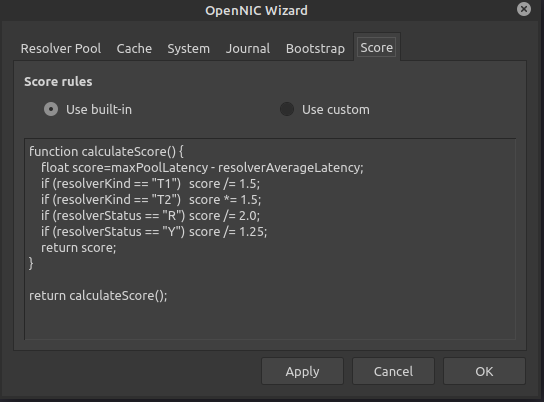
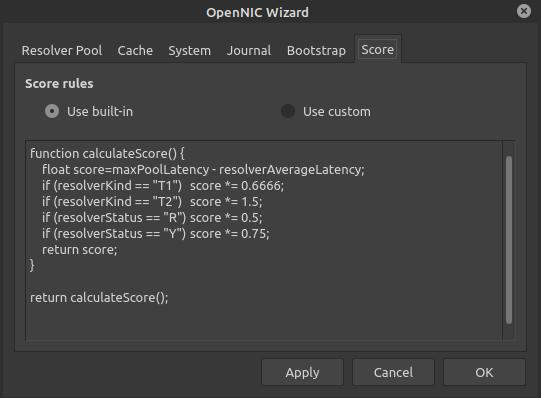
Update README

diff --git a/server/opennicserver.cpp b/server/opennicserver.cpp
@@ -37,10 +37,10 @@
 
 #define DEFAULT_SCORE_RULES	"function calculateScore() {\n" \
                             "    float score=maxPoolLatency - resolverAverageLatency;\n" \
-                            "    if (resolverKind == \"T1\")	score /= 1.5;\n" \
+                            "    if (resolverKind == \"T1\")	score *= 0.6666;\n" \
                             "    if (resolverKind == \"T2\")	score *= 1.5;\n" \
-                            "    if (resolverStatus == \"R\")	score /= 2.0;\n" \
-                            "    if (resolverStatus == \"Y\")	score /= 1.25;\n" \
+                            "    if (resolverStatus == \"R\")	score *= 0.5;\n" \
+                            "    if (resolverStatus == \"Y\")	score *= 0.75;\n" \
                             "    return score;\n" \
 							"}\n" \
 							"\n" \
@@ -169,6 +169,7 @@ void OpenNICServer::logPurge()
 void OpenNICServer::readSettings()
 {
 	QSettings settings(QSettings::IniFormat, QSettings::SystemScope, "OpenNIC", "OpenNICService");
+	log(tr("<< ")+settings.fileName());
 	mTcpListenPort			= settings.value(	"tcp_listen_port",			DEFAULT_TCP_LISTEN_PORT).toInt();
 	setRefreshPeriod(		settings.value(		"refresh_timer_period",		DEFAULT_REFRESH_TIMER_PERIOD).toInt());
 	setResolverCacheSize(	settings.value(		"resolver_cache_size",		DEFAULT_RESOLVER_CACHE_SIZE).toInt());
@@ -182,6 +183,7 @@ void OpenNICServer::readSettings()
 void OpenNICServer::writeSettings()
 {
 	QSettings settings(QSettings::IniFormat, QSettings::SystemScope, "OpenNIC", "OpenNICService");
+	log(tr(">> ")+settings.fileName());
 	settings.setValue("tcp_listen_port",			mTcpListenPort);
 	settings.setValue("refresh_timer_period",		refreshPeriod());
 	settings.setValue("resolver_cache_size",		resolverCacheSize());
